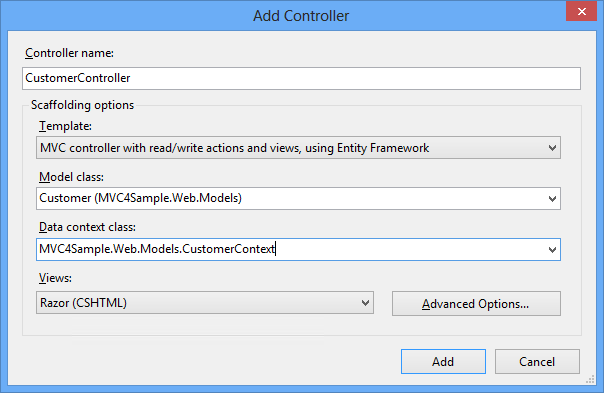
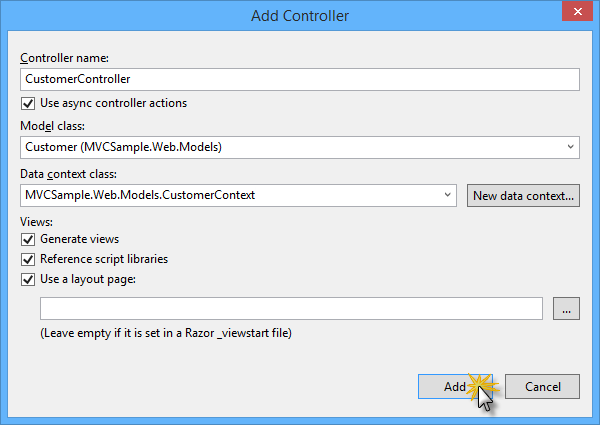
[HOL-ASPNETAzureWebSites] Updated Exercise 2 to VS2013 and MVC5 and

diff --git a/HOLs/HOL-ASPNETAzureWebSites/Source/Assets/MVCSample.Web/MVCSample.Web/Controllers/CustomerController.cs b/HOLs/HOL-ASPNETAzureWebSites/Source/Assets/MVCSample.Web/MVCSample.Web/Controllers/CustomerController.cs
@@ -3,6 +3,7 @@ using System.Collections.Generic;
 using System.Data;
 using System.Data.Entity;
 using System.Linq;
+using System.Threading.Tasks;
 using System.Net;
 using System.Web;
 using System.Web.Mvc;
@@ -15,19 +16,19 @@ namespace MVCSample.Web.Controllers
         private CustomerContext db = new CustomerContext();
 
         // GET: /Customer/
-        public ActionResult Index()
+        public async Task<ActionResult> Index()
         {
-            return View(db.Customers.ToList());
+            return View(await db.Customers.ToListAsync());
         }
 
         // GET: /Customer/Details/5
-        public ActionResult Details(int? id)
+        public async Task<ActionResult> Details(int? id)
         {
             if (id == null)
             {
                 return new HttpStatusCodeResult(HttpStatusCode.BadRequest);
             }
-            Customer customer = db.Customers.Find(id);
+            Customer customer = await db.Customers.FindAsync(id);
             if (customer == null)
             {
                 return HttpNotFound();
@@ -46,12 +47,12 @@ namespace MVCSample.Web.Controllers
         // more details see http://go.microsoft.com/fwlink/?LinkId=317598.
         [HttpPost]
         [ValidateAntiForgeryToken]
-        public ActionResult Create([Bind(Include="CustomerId,Name,Phone,Address,Company,Title,Email,Image")] Customer customer)
+        public async Task<ActionResult> Create([Bind(Include="CustomerId,Name,Phone,Address,Company,Title,Email,Image")] Customer customer)
         {
             if (ModelState.IsValid)
             {
                 db.Customers.Add(customer);
-                db.SaveChanges();
+                await db.SaveChangesAsync();
                 return RedirectToAction("Index");
             }
 
@@ -59,13 +60,13 @@ namespace MVCSample.Web.Controllers
         }
 
         // GET: /Customer/Edit/5
-        public ActionResult Edit(int? id)
+        public async Task<ActionResult> Edit(int? id)
         {
             if (id == null)
             {
                 return new HttpStatusCodeResult(HttpStatusCode.BadRequest);
             }
-            Customer customer = db.Customers.Find(id);
+            Customer customer = await db.Customers.FindAsync(id);
             if (customer == null)
             {
                 return HttpNotFound();
@@ -78,25 +79,25 @@ namespace MVCSample.Web.Controllers
         // more details see http://go.microsoft.com/fwlink/?LinkId=317598.
         [HttpPost]
         [ValidateAntiForgeryToken]
-        public ActionResult Edit([Bind(Include="CustomerId,Name,Phone,Address,Company,Title,Email,Image")] Customer customer)
+        public async Task<ActionResult> Edit([Bind(Include="CustomerId,Name,Phone,Address,Company,Title,Email,Image")] Customer customer)
         {
             if (ModelState.IsValid)
             {
                 db.Entry(customer).State = EntityState.Modified;
-                db.SaveChanges();
+                await db.SaveChangesAsync();
                 return RedirectToAction("Index");
             }
             return View(customer);
         }
 
         // GET: /Customer/Delete/5
-        public ActionResult Delete(int? id)
+        public async Task<ActionResult> Delete(int? id)
         {
             if (id == null)
             {
                 return new HttpStatusCodeResult(HttpStatusCode.BadRequest);
             }
-            Customer customer = db.Customers.Find(id);
+            Customer customer = await db.Customers.FindAsync(id);
             if (customer == null)
             {
                 return HttpNotFound();
@@ -107,11 +108,11 @@ namespace MVCSample.Web.Controllers
         // POST: /Customer/Delete/5
         [HttpPost, ActionName("Delete")]
         [ValidateAntiForgeryToken]
-        public ActionResult DeleteConfirmed(int id)
+        public async Task<ActionResult> DeleteConfirmed(int id)
         {
-            Customer customer = db.Customers.Find(id);
+            Customer customer = await db.Customers.FindAsync(id);
             db.Customers.Remove(customer);
-            db.SaveChanges();
+            await db.SaveChangesAsync();
             return RedirectToAction("Index");
         }
 

diff --git a/HOLs/HOL-ASPNETAzureWebSites/Source/Assets/MVCSample.Web/MVCSample.Web/Properties/AssemblyInfo.cs b/HOLs/HOL-ASPNETAzureWebSites/Source/Assets/MVCSample.Web/MVCSample.Web/Properties/AssemblyInfo.cs
@@ -20,7 +20,7 @@ using System.Runtime.InteropServices;
 [assembly: ComVisible(false)]
 
 // The following GUID is for the ID of the typelib if this project is exposed to COM
-[assembly: Guid("2fb7c156-766b-4131-9599-bad339ea364d")]
+[assembly: Guid("76df5d93-2ce3-4a0e-8118-62781b90ec93")]
 
 // Version information for an assembly consists of the following four values:
 //

diff --git a/HOLs/HOL-ASPNETAzureWebSites/HOL.md b/HOLs/HOL-ASPNETAzureWebSites/HOL.md
@@ -57,7 +57,7 @@ In this exercise, you will take advantage of the Windows Azure tools for Visual 
 
 #### Task 1 – Adding a New Windows Azure Web Site from Server Explorer ####
 
-1. Open **Microsoft Visual Studio 2013** and then open **Server Explorer** by selecting **View | Server Explorer**.
+1. Open **Microsoft Visual Studio Express 2013 For Web** and then open **Server Explorer** by selecting **View | Server Explorer**.
 
 1. In **Server Explorer**, right-click the **Windows Azure** node and select **Connect to Windows Azure...**. Sign in using the Microsoft account associated with your Windows Azure account.
 
@@ -110,14 +110,14 @@ In this exercise, you will take advantage of the Windows Azure tools for Visual 
 	_Web site running_
 
 <a name="Exercise2"></a>
-### Exercise 2: Creating an MVC 5 Application using Entity Framework ###
+### Exercise 2: Creating an MVC 5 Application with Entity Framework ###
 
 In this exercise, you will create a simple ASP.NET MVC 5 web application, using ASP.NET scaffolding with Entity Framework to create the CRUD methods.
 
 <a name="GettingStartedTask1"></a>
 #### Task 1 – Creating an ASP.NET MVC 5 Application in Visual Studio ####
 
-1. In **Microsoft Visual Studio 2013**, click the **New Project** link in the start page. Otherwise use  **File** | **New** | **Project**.
+1. In **Microsoft Visual Studio 2013**, click the **New Project** link in the start page. Otherwise use  **File** | **New Project**.
 
 	![Creating a new project](Images/creating-a-new-project.png?raw=true)
 
@@ -135,7 +135,7 @@ In this exercise, you will create a simple ASP.NET MVC 5 web application, using 
 	![Choosing MVC project template](Images/choosing-mvc-project-template.png?raw=true)
 
 	_Choosing MVC project template_
-
+	
 1. In the Solution Explorer, right-click **Models** and select **Add | Class** to create a customer class (POCO). Name it _Customer.cs_ and click **Add**.
 
 1. Open the **Customer** class and insert the following properties.
@@ -147,7 +147,7 @@ In this exercise, you will create a simple ASP.NET MVC 5 web application, using 
 	using System.Linq;
 	using System.Web;
 
-	namespace MVC4Sample.Web.Models
+	namespace MVCSample.Web.Models
 	{
 		public class Customer
 		{
@@ -170,75 +170,89 @@ In this exercise, you will create a simple ASP.NET MVC 5 web application, using 
 	}
 	````
 
-1. **Build MVC4Sample.Web** by using the **Ctrl + Shift + B** keyboard shortcut which will save the changes and build the project.
+1. **Build MVCSample.Web** by using the **Ctrl + Shift + B** keyboard shortcut which will save the changes and build the project.
 
-1. In the Solution Explorer, right-click the **Controllers** folder and select **Add | Controller**. 
+1. In **Solution Explorer**, right-click the **Controllers** folder and select **Add | Controller**. 
 
-1. Name the controller _CustomerController_ and complete the **Scaffolding options** with the following values.	
-	- In the **Template** drop-down list, select the **MVC Controller with read/write actions and views, using Entity Framework** option.
+1. In the **Add Scaffold** dialog box, select the **MVC 5 Controller with views, using Entity Framework** scaffolding type and click **Add**.
+
+	![Choosing scaffolding option](Images/scaffolding-options.png?raw=true)
+
+	_Choosing scaffolding option_
+
+1. Complete the scaffolding options in the **Add Controller** dialog box with the following values.
+	- In the **Controller name** box, type _CustomerController_.
+	- Check the **Use async controller actions** checkbox.
 	- In the **Model class** drop-down list, select the **Customer** class.
-	- In the **Data Context class** list, select **\<New data context...\>**. In the dialog box displayed, replace the data context class type with **MVC4Sample.Web.Models.CustomerContext** and click **OK**.
-	- In the **Views** drop-down list, make sure that **Razor (CSHTML)** is selected.
+	- In the **Data Context class** field, click **\<New data context...\>**. In the dialog box displayed, replace the data context class type with **MVCSample.Web.Models.CustomerContext** and click **OK**.
+	- In the **Views** section, make sure that all checkboxes are checked.
 
-	![Adding the Customer controller with scaffolding](Images/add-customer-controller.png?raw=true "Adding the Customer controller with scaffolding")
+	![Adding the Customer controller with scaffolding](Images/add-customer-controller.png?raw=true)
 
 	_Adding the Customer controller with scaffolding_
 	
-1. Click **Add** to create the new controller for **Customer** with scaffolding. You have generated the controller actions as well as the views. 
+1. Click **Add** to create the new controller for **Customer** with scaffolding. Visual Studio will then generate the controller actions, the Customer data context and the views. 
 		
-	![After creating the Customer controller with scaffolding ](Images/customer-scaffolding.png?raw=true "After creating the Customer controller with scaffolding")
+	![After creating the Customer controller with scaffolding](Images/customer-scaffolding.png?raw=true)
 
 	_After creating the Customer controller with scaffolding_
 
 1. Open the **CustomerController.cs** file in the **Controllers** folder. Notice that the CRUD action methods have been generated automatically. 
 
-	````C#
-	//
-	// POST: /Customer/Create
+	> **Note:** By checking the **Use async controller actions** checkbox from the scaffolding options in the previous steps, Visual Studio generates asynchronous action methods for all actions that involve access to the Customer data context. It is recommended to use asynchronous action methods for long-running, non-CPU bound requests to avoid blocking the Web server from performing work while the request is being processed.
 
+	````C#
+	...
+
+	// POST: /Customer/Create
+	// To protect from overposting attacks, please enable the specific properties you want to bind to, for 
+	// more details see http://go.microsoft.com/fwlink/?LinkId=317598.
 	[HttpPost]
 	[ValidateAntiForgeryToken]
-	public ActionResult Create(Customer customer)
+	public async Task<ActionResult> Create([Bind(Include="CustomerId,Name,Phone,Address,Company,Title,Email,Image")] Customer customer)
 	{
 		if (ModelState.IsValid)
 		{
 			 db.Customers.Add(customer);
-			 db.SaveChanges();
+			 await db.SaveChangesAsync();
 			 return RedirectToAction("Index");
 		}
 
 		return View(customer);
 	}
 
-	//
 	// GET: /Customer/Edit/5
-
-	public ActionResult Edit(int id = 0)
+	public async Task<ActionResult> Edit(int? id)
 	{
-		Customer customer = db.Customers.Find(id);
+		if (id == null)
+		{
+			 return new HttpStatusCodeResult(HttpStatusCode.BadRequest);
+		}
+		Customer customer = await db.Customers.FindAsync(id);
 		if (customer == null)
 		{
 			 return HttpNotFound();
 		}
 		return View(customer);
 	}
+
+	...
 	````
 
-	_Inside the Customer controller_
+	_Generated code for the Customer controller_
 
 1. Do not close Visual Studio.
 
 ---
 
 <a name="Exercise3"></a>
-### Exercise 3: Publishing an MVC 4 Application using Web Deploy ###
+### Exercise 3: Publishing an MVC 5 Application using Web Deploy ###
 
-In this exercise, you will publish the application you obtained in Exercise 2, taking advantage of the Web Deploy publishing feature provided by  Visual Studio.
+In this exercise, you will publish to Windows Azure Web Sites the application you obtained in [Exercise 2](#Exercise2) by making use of the Web Deploy publishing feature provided by Visual Studio.
 
-<a name="Ex1Task3"></a>
 #### Task 1 – Publishing an ASP.NET MVC 5 Application using Web Deploy ####
 
-1. Go back to the MVC 4 solution. In the **Solution Explorer**,  right-click the web site project and select **Publish**.
+1. In **Solution Explorer**, right-click the web site project and select **Publish**.
 
 	![Publishing the Application](Images/publishing-the-application.png?raw=true "Publishing the Application")
 
